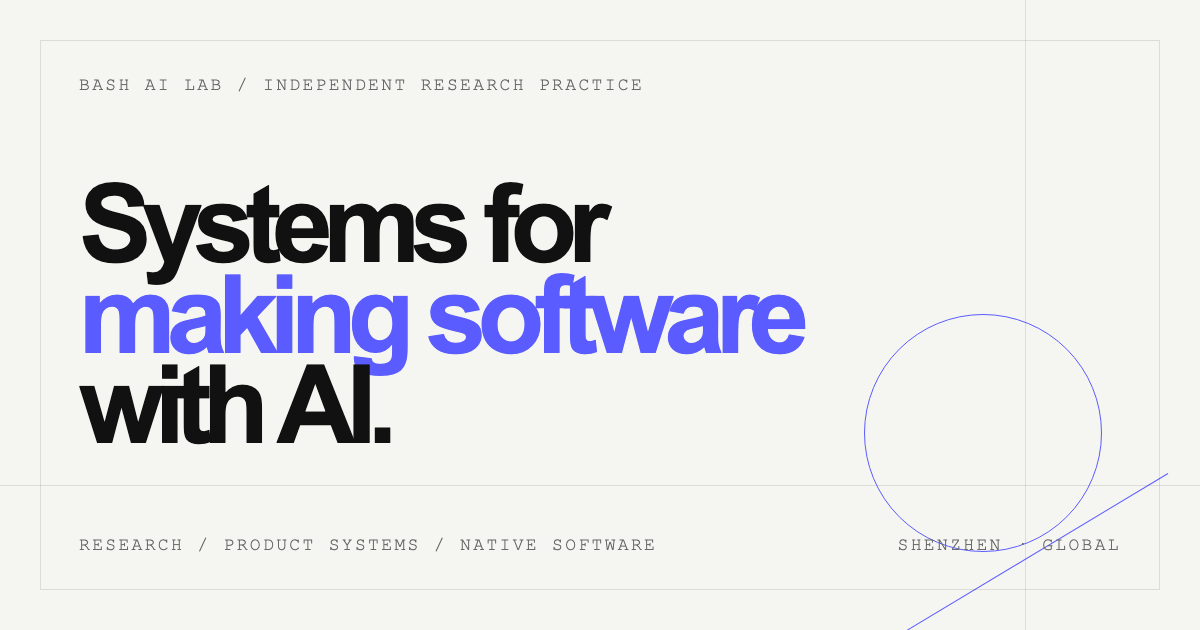
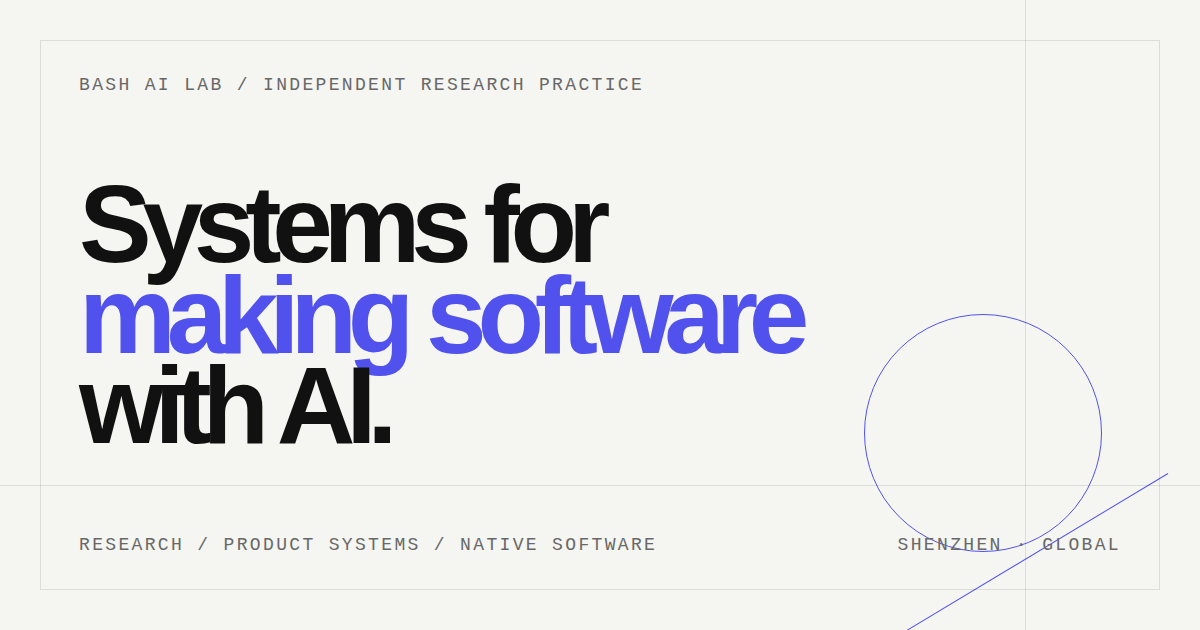
Enforce accessible accent contrast

diff --git a/tests/e2e/accessibility.spec.ts b/tests/e2e/accessibility.spec.ts
@@ -135,8 +135,8 @@ test("resolves reduced-motion styles and accessible contrast-critical tokens", a
   expect(contrastRatios["dark-text"]).toBeGreaterThanOrEqual(4.5);
   expect(contrastRatios["dark-secondary-text"]).toBeGreaterThanOrEqual(4.5);
   expect(contrastRatios["dark-reading-text"]).toBeGreaterThanOrEqual(4.5);
-  expect(contrastRatios["light-accent"]).toBeGreaterThanOrEqual(3);
-  expect(contrastRatios["dark-accent"]).toBeGreaterThanOrEqual(3);
+  expect(contrastRatios["light-accent"]).toBeGreaterThanOrEqual(4.5);
+  expect(contrastRatios["dark-accent"]).toBeGreaterThanOrEqual(4.5);
 });
 
 test("returns a long research page to its in-page top target", async ({
